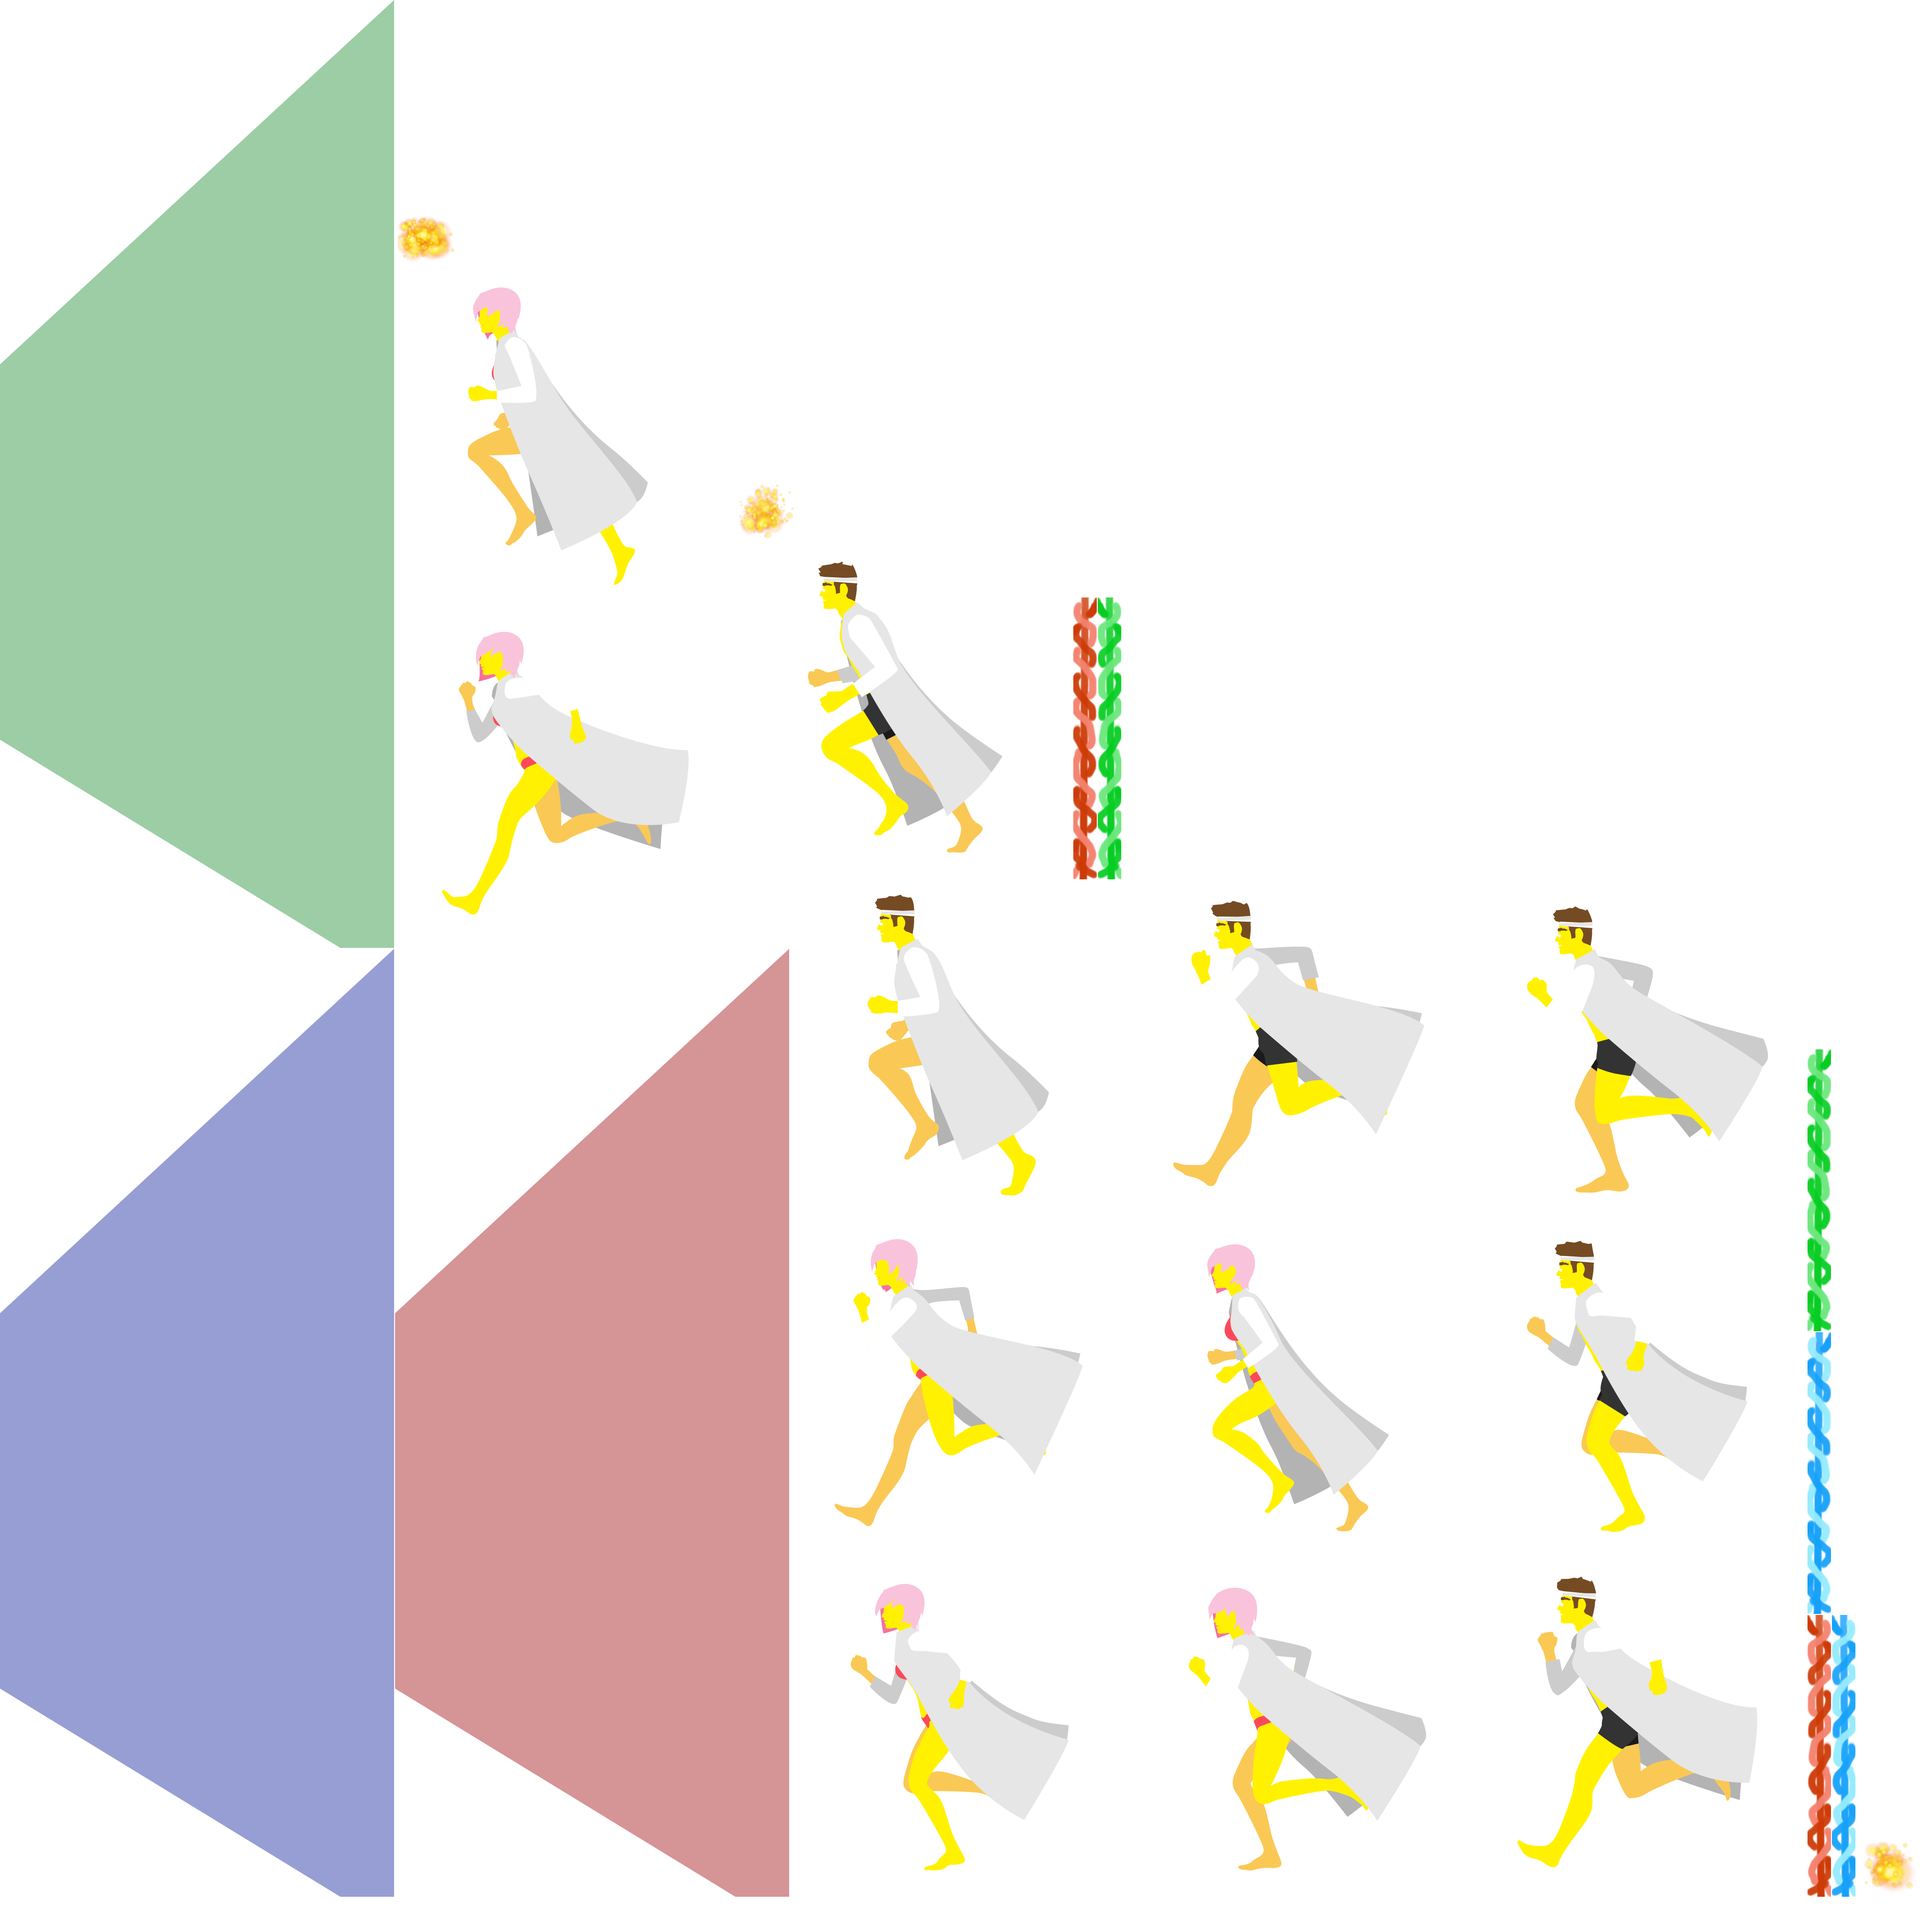
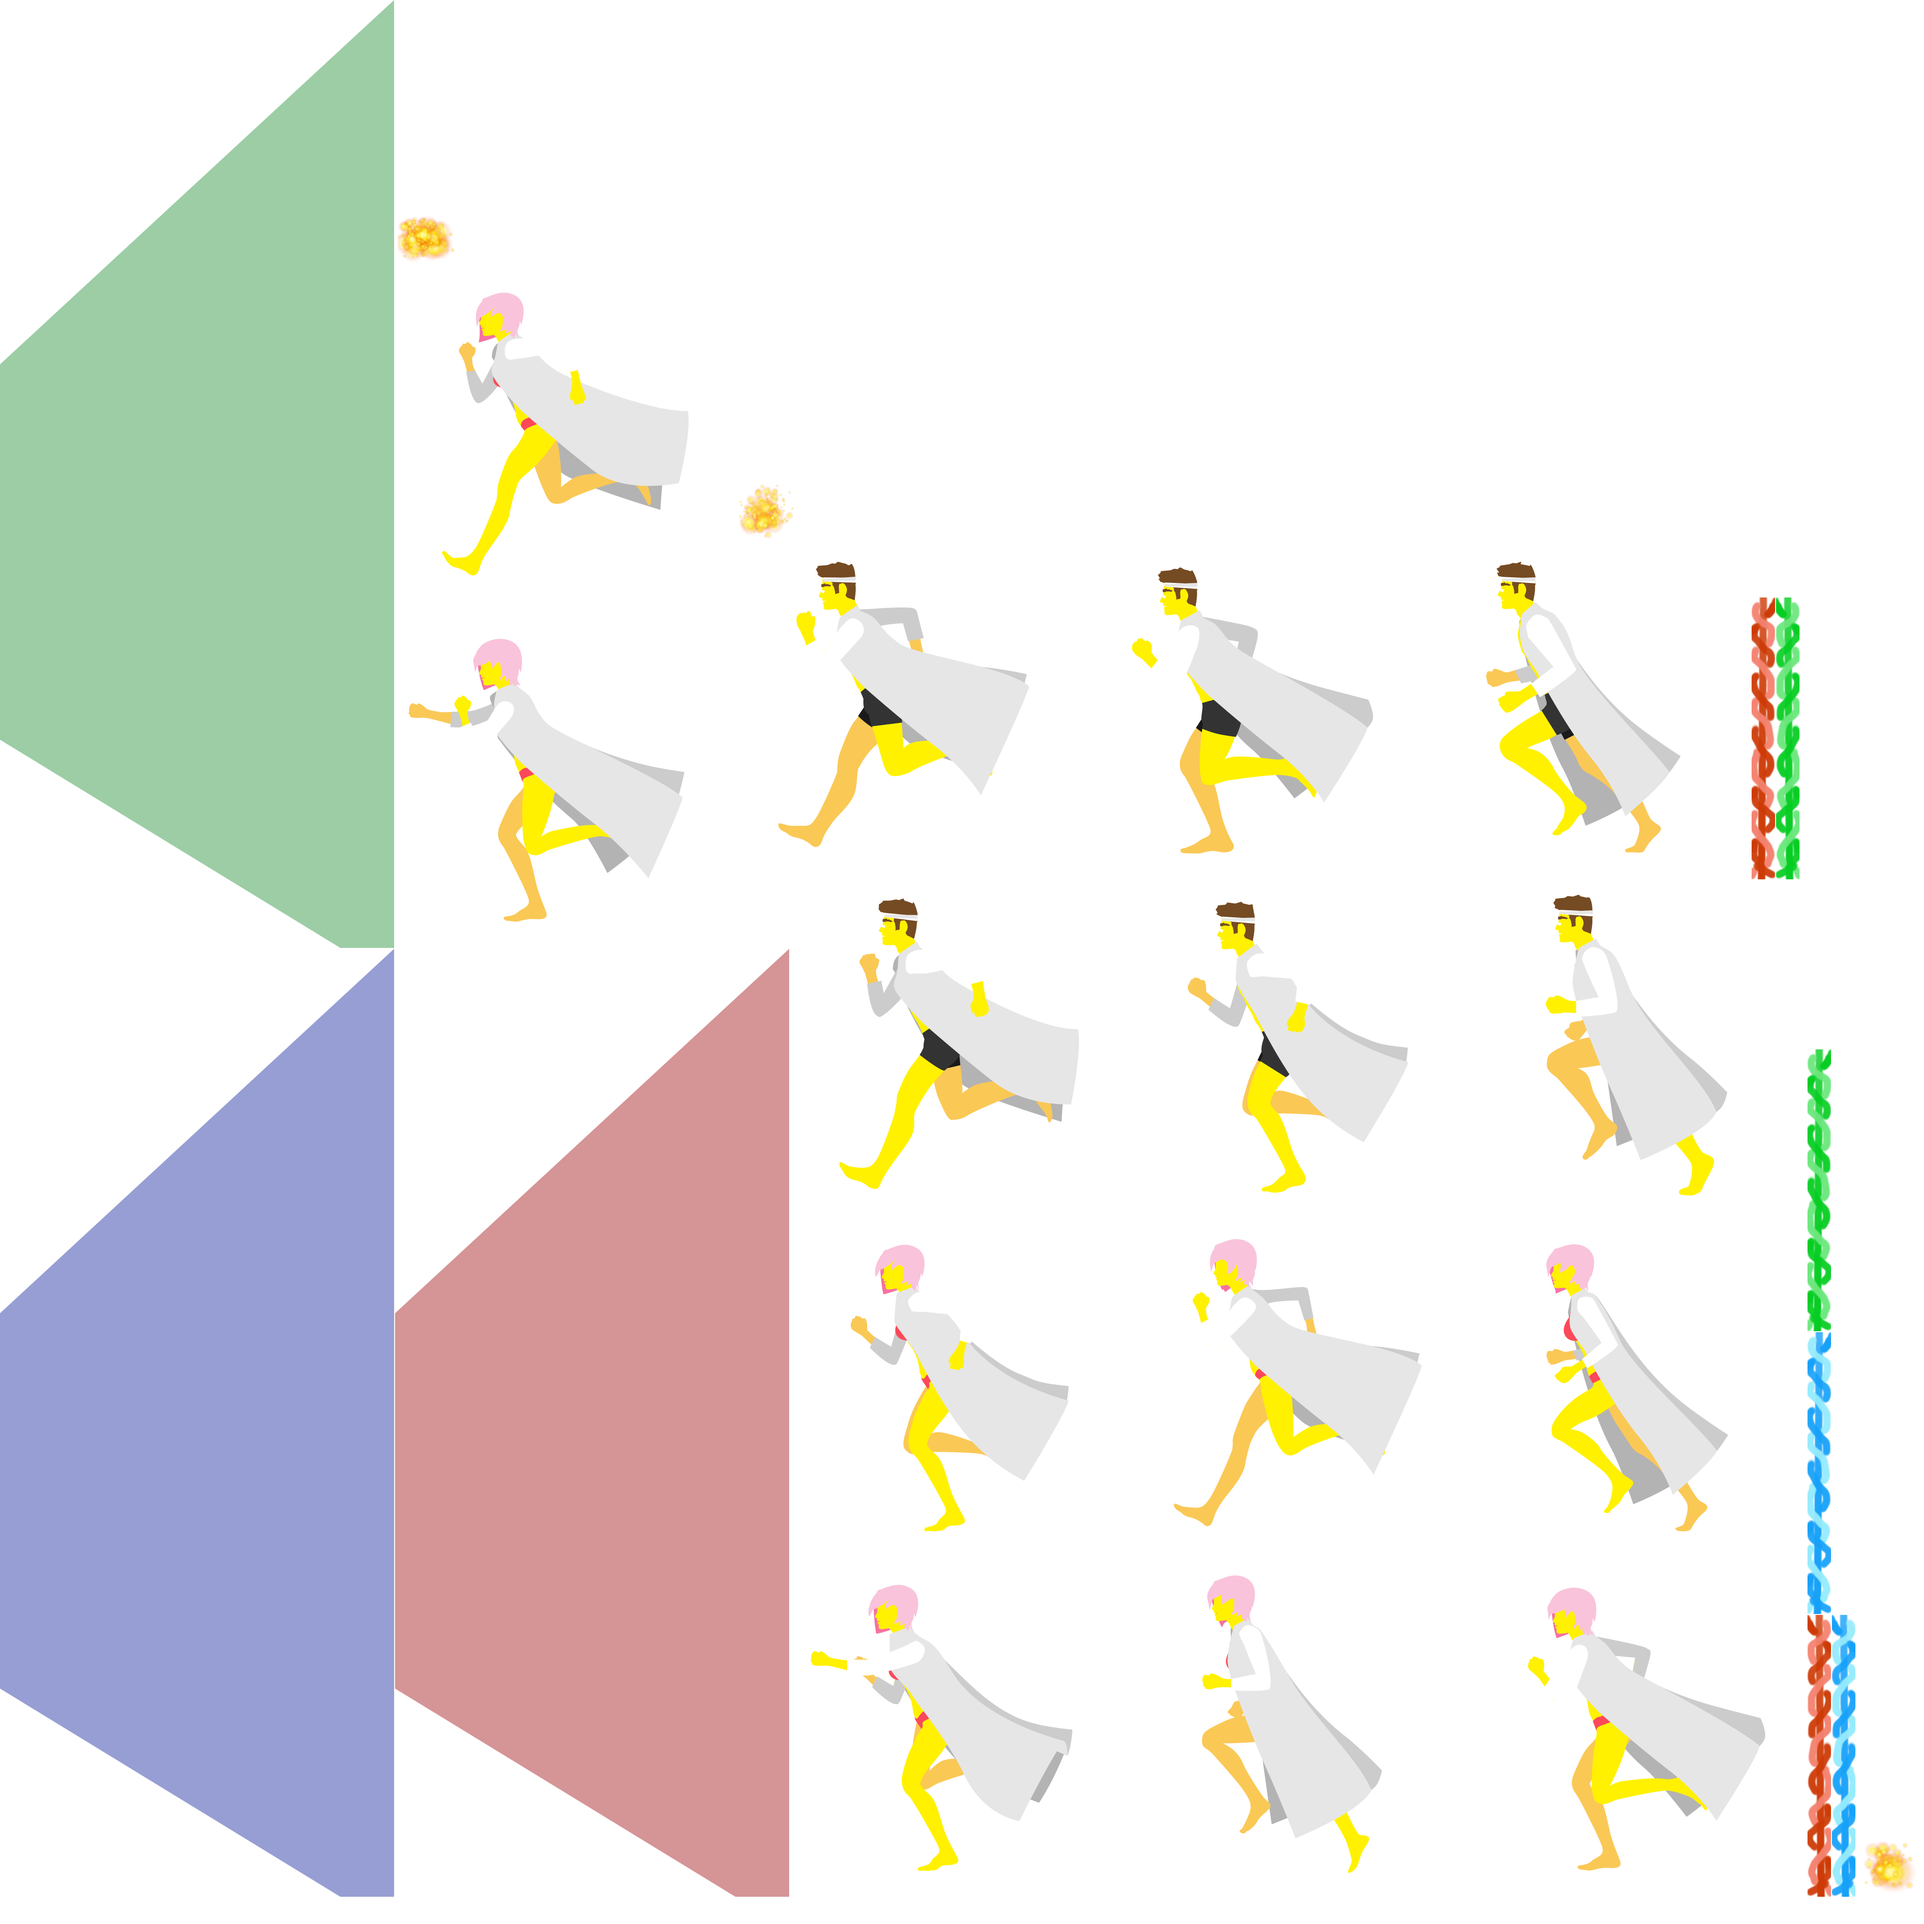
Adding shielding animation logic.
This isn't perfect, and it's just hacked together right now but it works
for the game as is. Will need to be pulled out into the engine later.

diff --git a/core/src/com/kasetagen/game/bubblerunner/scene2d/actor/Player.java b/core/src/com/kasetagen/game/bubblerunner/scene2d/actor/Player.java
@@ -1,15 +1,10 @@
 package com.kasetagen.game.bubblerunner.scene2d.actor;
 
-import com.badlogic.gdx.Gdx;
 import com.badlogic.gdx.graphics.Color;
 import com.badlogic.gdx.graphics.g2d.Animation;
 import com.badlogic.gdx.graphics.g2d.Batch;
 import com.badlogic.gdx.graphics.g2d.TextureAtlas;
-import com.badlogic.gdx.maps.Map;
-import com.badlogic.gdx.math.Rectangle;
-import com.badlogic.gdx.graphics.g2d.TextureRegion;
 import com.badlogic.gdx.utils.Array;
-import com.badlogic.gdx.utils.ObjectMap;
 import com.kasetagen.game.bubblerunner.util.AnimationUtil;
 
 
@@ -37,7 +32,10 @@ public class Player extends GenericGroup {
     private float keyFrameTime = 0f;
     private Animation animation;
     private Animation deathAnimation;
+    private Animation shieldAnimation;
     private boolean isDead = false;
+    private boolean isShielding = false;
+    private float shieldKeyFrameTime = 0f;
 
     public Player(float x, float y, float width, float height, TextureAtlas atlas, String animationName){
         super(x, y, width, height, null, Color.BLACK);
@@ -50,6 +48,16 @@ public class Player extends GenericGroup {
         fields = new Array<ForceField>();
     }
 
+    public void setShieldingAnimation(Animation ani){
+        shieldAnimation = ani;
+        shieldKeyFrameTime = 0f;
+    }
+
+    public void startShield(){
+        isShielding = true;
+        shieldKeyFrameTime = 0f;
+    }
+
     public void resetAnimation(Animation ani){
         animation = ani;
         keyFrameTime = 0f;
@@ -60,9 +68,22 @@ public class Player extends GenericGroup {
         super.act(delta);
         keyFrameTime += delta;
         if(!isDead){
-            textureRegion = animation.getKeyFrame(keyFrameTime, true);
-            if(!textureRegion.isFlipX()){
-                textureRegion.flip(true, false);
+            if(isShielding && shieldAnimation != null){
+                shieldKeyFrameTime += delta;
+                if(!shieldAnimation.isAnimationFinished(shieldKeyFrameTime)){
+                    textureRegion = shieldAnimation.getKeyFrame(shieldKeyFrameTime, false);
+                    if(!textureRegion.isFlipX()){
+                        textureRegion.flip(true, false);
+                    }
+                }else{
+                    shieldKeyFrameTime = 0;
+                    isShielding = false;
+                }
+            }else{
+                textureRegion = animation.getKeyFrame(keyFrameTime, true);
+                if(!textureRegion.isFlipX()){
+                    textureRegion.flip(true, false);
+                }
             }
 
         }else{

diff --git a/core/src/com/kasetagen/game/bubblerunner/scene2d/BubbleRunnerStage.java b/core/src/com/kasetagen/game/bubblerunner/scene2d/BubbleRunnerStage.java
@@ -706,7 +706,7 @@ public class BubbleRunnerStage extends BaseStage {
         if(wasAdded){
             //TODO: Play Forcefield SoundFX
             powerOnSound.play(sfxVolume);
-
+            player.startShield();
 
         }else{
             //TODO: Play Resources Limited SoundFX
@@ -777,6 +777,8 @@ public class BubbleRunnerStage extends BaseStage {
 
     private void initializePlayer(int maxFields) {
         String aniName = getPlayerAnimationName();
+        String shieldAniName = getPlayerShieldingAnimationName();
+
 
         player = new Player(playerDimensions[0],
                 playerDimensions[1],
@@ -785,6 +787,9 @@ public class BubbleRunnerStage extends BaseStage {
                 assetManager.get(AssetsUtil.ANIMATION_ATLAS, AssetsUtil.TEXTURE_ATLAS),
                 aniName);
         player.maxFields = maxFields;
+        TextureAtlas atlas = assetManager.get(AssetsUtil.ANIMATION_ATLAS, AssetsUtil.TEXTURE_ATLAS);
+        Animation shieldingAnimation = new Animation(AnimationUtil.RUNNER_CYCLE_RATE, atlas.findRegions(shieldAniName));
+        player.setShieldingAnimation(shieldingAnimation);
         addActor(player);
 
         //NOT SURE WHERE THIS GOES
@@ -795,6 +800,10 @@ public class BubbleRunnerStage extends BaseStage {
 
     private String getPlayerAnimationName() {
         return characterSelected.equals("Woman") ? "player/Female_Run" : "player/Male_Run";
+    }
+
+    private String getPlayerShieldingAnimationName(){
+        return characterSelected.equals("Woman") ? "player/Female_Punch" : "player/Male_Punch";
     }
 
     private void initializeEnvironmentGroups(){
